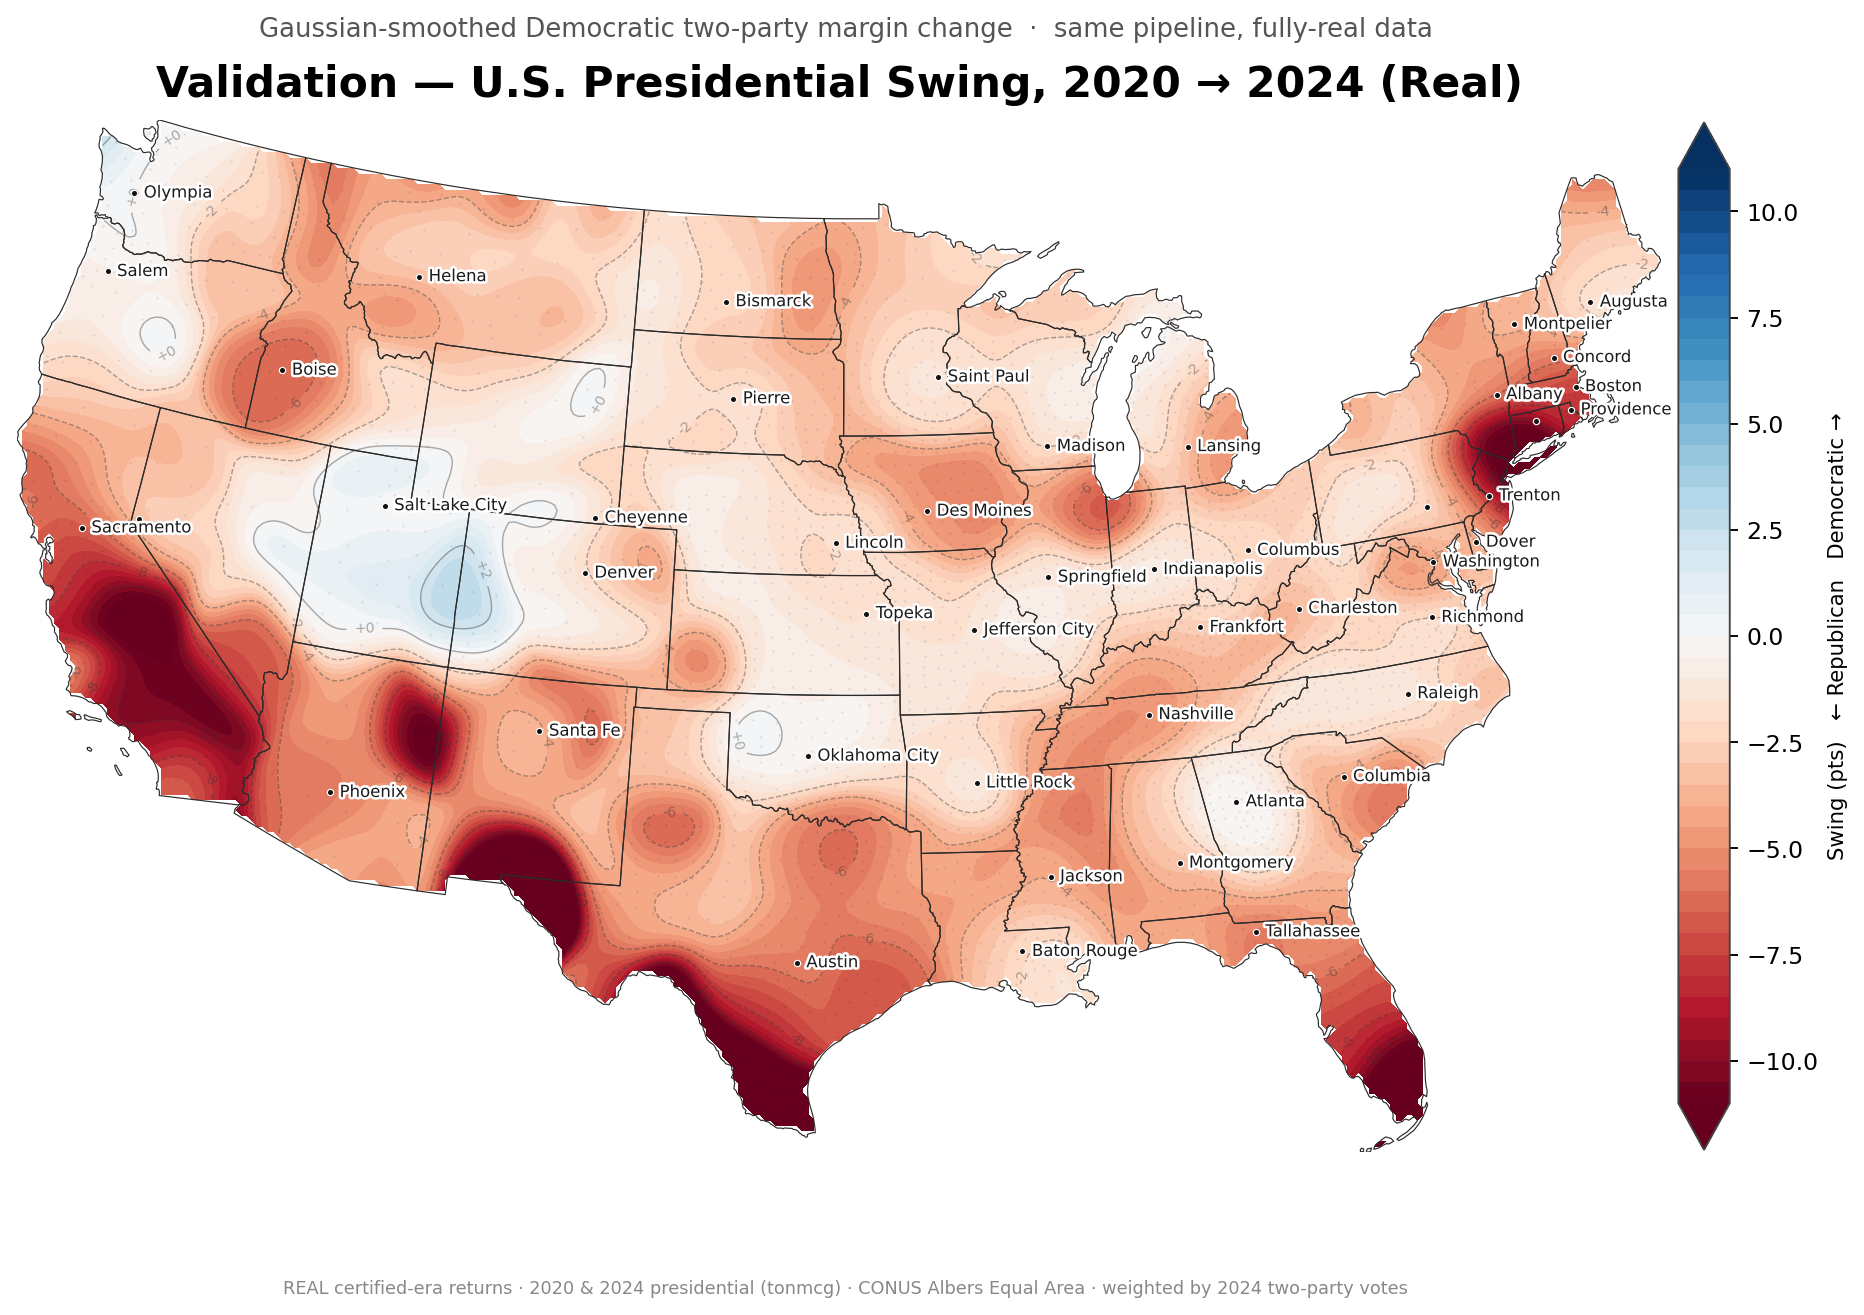
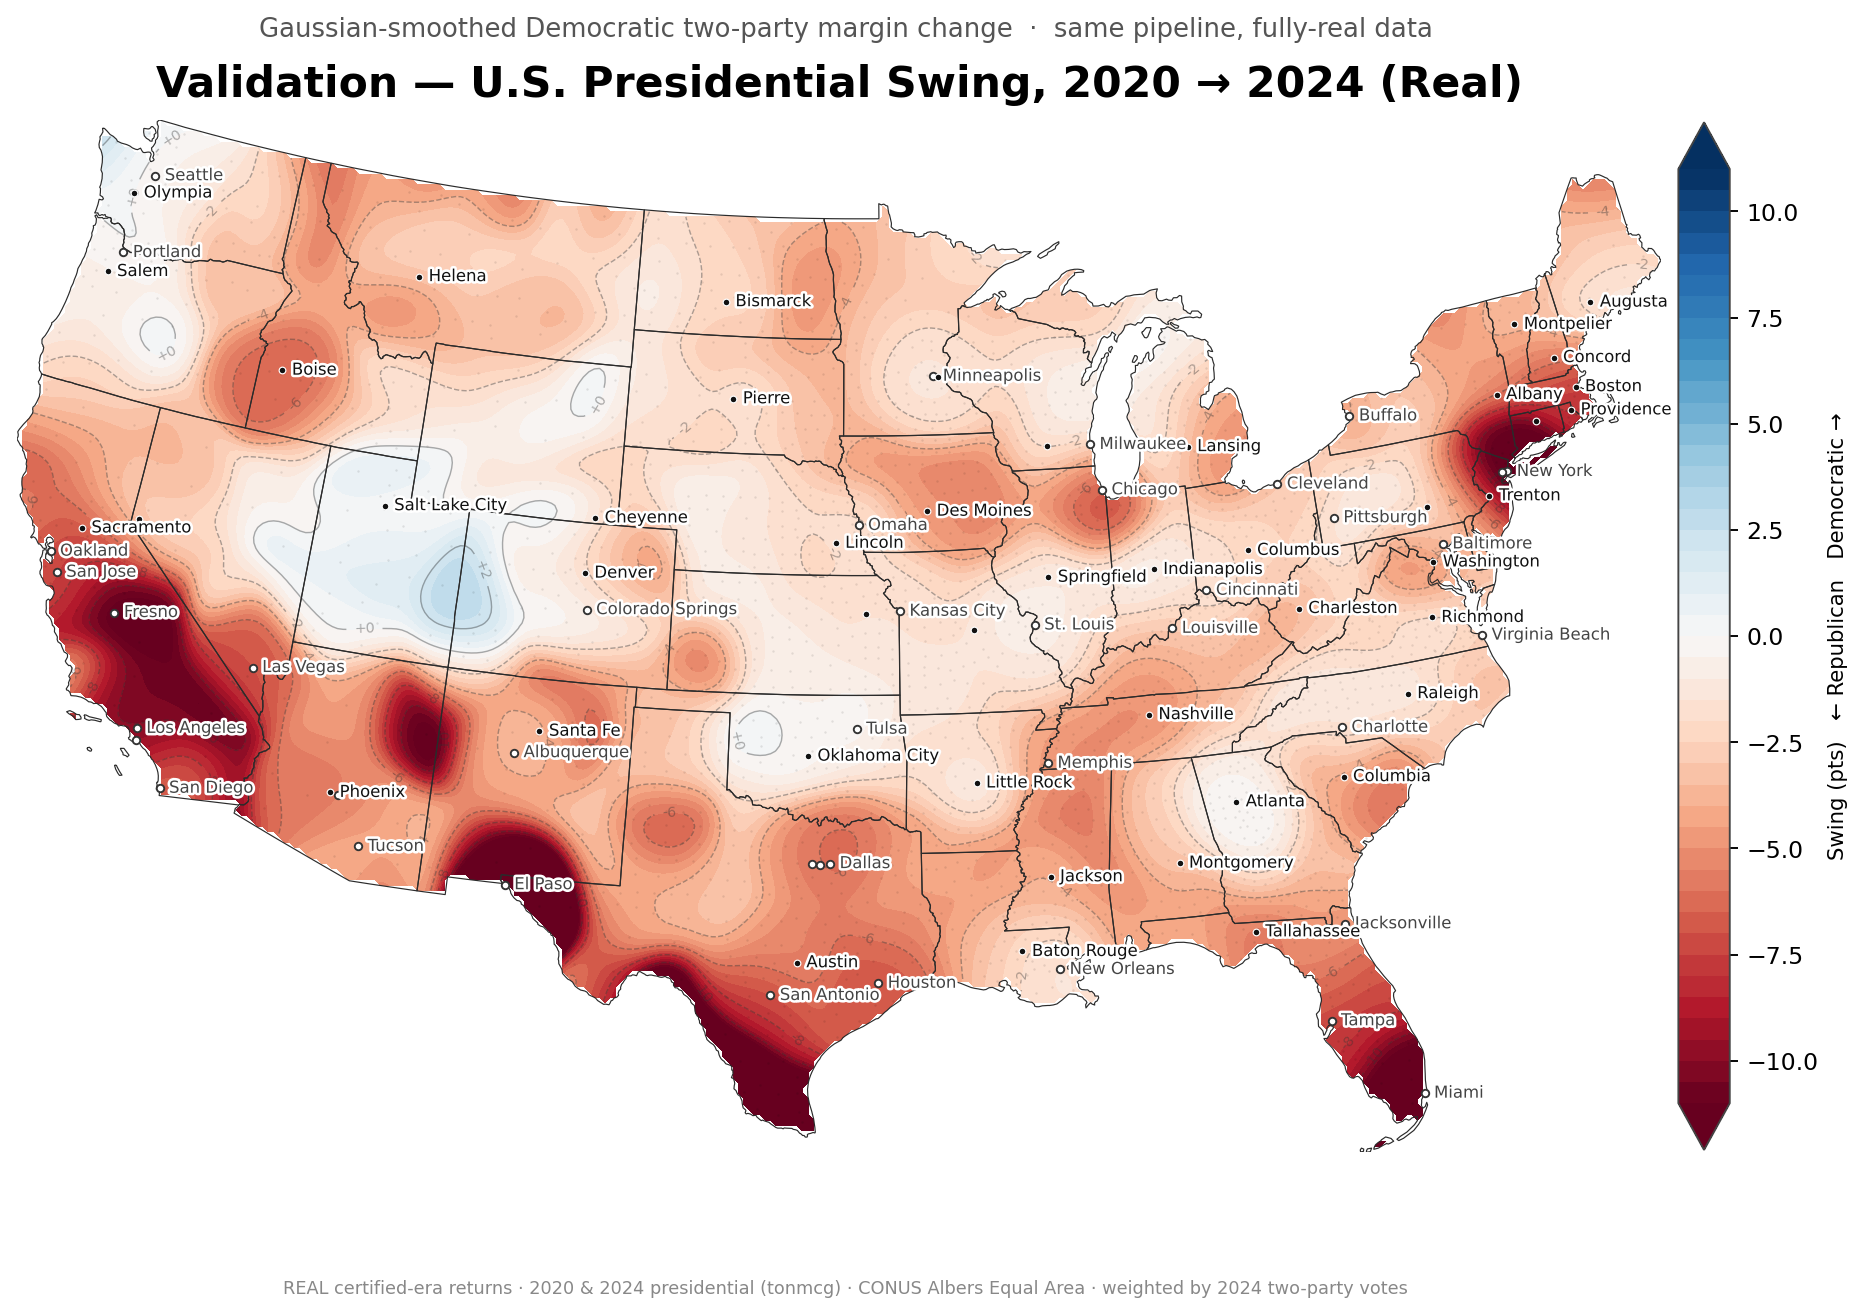
Add major-city labels alongside capitals
- capitals.py MAJORS: 41 largest non-capital contiguous-US cities.
- Static + web: capitals (solid) and majors (hollow) with combined greedy
  placement by population; separate Capitals / Major cities toggles in the app.

diff --git a/web/app.js b/web/app.js
@@ -6,8 +6,8 @@
 'use strict';
 
 const DATA = 'data/';
-const state = { meta:null, grids:{}, states:null, land:null, counties:null, capitals:null,
-                baseline:null, mode:'abs', lod:null, quad:null, loading:{}, showCaps:true };
+const state = { meta:null, grids:{}, states:null, land:null, counties:null, capitals:null, majors:null,
+                baseline:null, mode:'abs', lod:null, quad:null, loading:{}, showCaps:true, showMajors:true };
 
 const svg = d3.select('#map');
 const gZoom = svg.append('g');
@@ -44,10 +44,11 @@ async function load(){
   const meta = await d3.json(DATA + 'meta.json');
   state.meta = meta;
   [MINX, MINY, MAXX, MAXY] = meta.bounds;
-  const [states, land, counties, capitals] = await Promise.all([
-    d3.json(DATA + 'states.json'), d3.json(DATA + 'land.json'),
-    d3.json(DATA + 'counties.json'), d3.json(DATA + 'capitals.json')]);
-  state.states = states; state.land = land; state.counties = counties; state.capitals = capitals;
+  const [states, land, counties, capitals, majors] = await Promise.all([
+    d3.json(DATA + 'states.json'), d3.json(DATA + 'land.json'), d3.json(DATA + 'counties.json'),
+    d3.json(DATA + 'capitals.json'), d3.json(DATA + 'majors.json')]);
+  state.states = states; state.land = land; state.counties = counties;
+  state.capitals = capitals; state.majors = majors;
   const cols = Object.keys(meta.baselines);
   state.baseline = cols[0];
   state.lod = meta.lods[0];
@@ -67,7 +68,8 @@ async function load(){
   state.quad = d3.quadtree().x(d => d.x).y(d => d.y).addAll(counties);
 
   d3.select('#reset').on('click', () => svg.transition().duration(400).call(zoom.transform, d3.zoomIdentity));
-  d3.select('#capToggle').on('change', function(){ state.showCaps = this.checked; positionCapitals(); });
+  d3.select('#capToggle').on('change', function(){ state.showCaps = this.checked; positionPlaces(); });
+  d3.select('#majToggle').on('change', function(){ state.showMajors = this.checked; positionPlaces(); });
   d3.select('#footer').html(
     `Source: <a href="https://github.com/mike10010100/elections-2026" target="_blank" rel="noopener">mike10010100/elections-2026</a>
      (compiles NYT returns) · <b>PROVISIONAL, pre-certification</b> · fetched ${meta.fetched_at.slice(0,16)} ·
@@ -120,31 +122,35 @@ function drawLegend(vmax, color, title){
       .call(g => g.select('.domain').remove()).selectAll('text').attr('font-size', 9);
 }
 
-function positionCapitals(){
-  if (!state.capitals || !MPATH){ gCaps.selectAll('*').remove(); return; }
+function positionPlaces(){
+  if (!MPATH){ gCaps.selectAll('*').remove(); return; }
   const t = d3.zoomTransform(svg.node());
   const W = svg.node().clientWidth, H = svg.node().clientHeight;
-  const pts = state.showCaps ? state.capitals
-      .map(c => ({ ...c, X: t.applyX(sx(c.x)), Y: t.applyY(sy(c.y)) }))
-      .filter(c => c.X > -20 && c.X < W+20 && c.Y > -10 && c.Y < H+10) : [];
-  gCaps.selectAll('circle').data(pts, d => d.n).join('circle')
-      .attr('class', 'cap-dot').attr('cx', d => d.X).attr('cy', d => d.Y).attr('r', 2.6);
-  // greedy label placement by population; crowded areas keep the larger cities
+  const src = [];
+  if (state.showCaps && state.capitals) src.push(...state.capitals.map(c => ({ ...c, t: 'cap' })));
+  if (state.showMajors && state.majors) src.push(...state.majors.map(c => ({ ...c, t: 'maj' })));
+  const pts = src.map(c => ({ ...c, X: t.applyX(sx(c.x)), Y: t.applyY(sy(c.y)) }))
+      .filter(c => c.X > -20 && c.X < W+20 && c.Y > -10 && c.Y < H+10);
+  gCaps.selectAll('circle').data(pts, d => d.t + d.n).join('circle')
+      .attr('class', d => d.t === 'cap' ? 'cap-dot' : 'maj-dot')
+      .attr('cx', d => d.X).attr('cy', d => d.Y).attr('r', d => d.t === 'cap' ? 2.6 : 2.4);
+  // greedy label placement by population across both sets
   const placed = [], show = [];
   for (const c of [...pts].sort((a, b) => b.p - a.p)){
     const w = c.n.length*6 + 8, box = [c.X+5, c.Y-6, c.X+5+w, c.Y+6];
     if (placed.some(p => !(box[2]<p[0] || box[0]>p[2] || box[3]<p[1] || box[1]>p[3]))) continue;
     placed.push(box); show.push(c);
   }
-  gCaps.selectAll('text').data(show, d => d.n).join('text')
-      .attr('class', 'cap-label').attr('x', d => d.X+5).attr('y', d => d.Y+3).text(d => d.n);
+  gCaps.selectAll('text').data(show, d => d.t + d.n).join('text')
+      .attr('class', d => d.t === 'cap' ? 'cap-label' : 'cap-label maj-label')
+      .attr('x', d => d.X+5).attr('y', d => d.Y+3).text(d => d.n);
 }
 
 const zoom = d3.zoom().scaleExtent([1, 60]).on('zoom', async e => {
   gZoom.attr('transform', e.transform);
   gContour.selectAll('path').attr('stroke-width', 0.3/e.transform.k);
   gStates.selectAll('path').attr('stroke-width', 0.6/e.transform.k);
-  positionCapitals();
+  positionPlaces();
   const want = pickLOD(e.transform.k);
   if (want !== state.lod){
     state.lod = want;
@@ -179,7 +185,7 @@ function resize(){
   svg.select('#landclip path').attr('d', MPATH(state.land));
   svg.call(zoom.transform, d3.zoomIdentity);
   render();
-  positionCapitals();
+  positionPlaces();
 }
 
 load().catch(err => { console.error(err); document.getElementById('footer').textContent = 'Failed to load data: ' + err; });

diff --git a/web/index.html b/web/index.html
@@ -37,8 +37,10 @@
   svg.grabbing{cursor:grabbing}
   .state{fill:none;stroke:#333;stroke-width:.6px;vector-effect:non-scaling-stroke}
   .cap-dot{fill:#111;stroke:#fff;stroke-width:1}
+  .maj-dot{fill:#fff;stroke:#333;stroke-width:1.1}
   .cap-label{font-size:11px;fill:#1a1a1a;paint-order:stroke;stroke:#fff;stroke-width:3px;
     stroke-linejoin:round;pointer-events:none}
+  .maj-label{fill:#444}
   .chk{display:flex;align-items:center;gap:5px;font-size:13px;cursor:pointer;user-select:none}
   .tip{position:absolute;pointer-events:none;background:#fff;border:1px solid var(--line);
     border-radius:6px;padding:6px 9px;font-size:12px;box-shadow:0 2px 8px #0002;opacity:0;transition:opacity .08s}
@@ -76,6 +78,10 @@
   <div class="ctl">
     <label>Labels</label>
     <label class="chk"><input type="checkbox" id="capToggle" checked> Capitals</label>
+  </div>
+  <div class="ctl">
+    <label>&nbsp;</label>
+    <label class="chk"><input type="checkbox" id="majToggle" checked> Major cities</label>
   </div>
   <div id="legend">
     <span class="legend-title" id="legend-title"></span>

diff --git a/src/render.py b/src/render.py
@@ -26,24 +26,27 @@ import insets as INS
 import capitals as CAP
 
 
-def draw_capitals(ax):
-    """Capital dots (all) + labels placed greedily by population so crowded
-    regions keep only the larger cities."""
+def draw_places(ax):
+    """Capital (solid) + major-city (hollow) dots, with labels placed greedily
+    by population across both sets so crowded regions keep the larger cities."""
     tr = Transformer.from_crs(C.CRS_GEOGRAPHIC, C.CRS_WORKING, always_xy=True)
-    caps = [(n, *tr.transform(lon, lat), pop) for n, s, lat, lon, pop in CAP.CAPITALS]
-    ax.scatter([c[1] for c in caps], [c[2] for c in caps], s=7,
-               facecolor="#111", edgecolor="white", linewidths=0.5, zorder=20)
+    caps = [(n, *tr.transform(lon, lat), pop, "cap") for n, s, lat, lon, pop in CAP.CAPITALS]
+    maj = [(n, *tr.transform(lon, lat), pop, "maj") for n, s, lat, lon, pop in CAP.MAJORS]
+    ax.scatter([m[1] for m in maj], [m[2] for m in maj], s=10, facecolor="white",
+               edgecolor="#333", linewidths=0.8, zorder=19)
+    ax.scatter([c[1] for c in caps], [c[2] for c in caps], s=8, facecolor="#111",
+               edgecolor="white", linewidths=0.5, zorder=20)
     halo = [pe.withStroke(linewidth=2.2, foreground="white")]
     placed = []
-    for n, x, y, pop in sorted(caps, key=lambda c: -c[3]):
+    for n, x, y, pop, typ in sorted(caps + maj, key=lambda c: -c[3]):
         dx, dy = ax.transData.transform((x, y))
         w = len(n) * 7 * 0.55 + 6
         box = (dx + 4, dy - 5, dx + 4 + w, dy + 5)
         if any(not (box[2] < p[0] or box[0] > p[2] or box[3] < p[1] or box[1] > p[3]) for p in placed):
             continue
         placed.append(box)
-        ax.annotate(n, (x, y), xytext=(4, 0), textcoords="offset points", fontsize=7,
-                    va="center", ha="left", color="#1a1a1a", zorder=21, path_effects=halo)
+        ax.annotate(n, (x, y), xytext=(4, 0), textcoords="offset points", fontsize=7, va="center",
+                    ha="left", color="#111" if typ == "cap" else "#444", zorder=21, path_effects=halo)
 
 plt.rcParams.update({"font.family": "DejaVu Sans", "font.size": 10,
                      "axes.edgecolor": "#444444", "figure.facecolor": "white"})
@@ -118,7 +121,7 @@ def render_hero(stations, land, states, value_col, method, out_png, title,
     if show_dots:
         s = stations.dropna(subset=[value_col])
         ax.scatter(s["x"], s["y"], s=1.0, c="#00000018", linewidths=0)
-    draw_capitals(ax)
+    draw_places(ax)
     if stations_all is not None:
         ax_ak = ax.inset_axes([0.005, 0.01, 0.17, 0.20])
         _draw_ak_inset(ax_ak, INS.ak_geometry())

diff --git a/src/capitals.py b/src/capitals.py
@@ -56,3 +56,49 @@ CAPITALS = [
     ("Cheyenne", "WY", 41.140, -104.820, 65),
     ("Washington", "DC", 38.895, -77.037, 702),
 ]
+
+# Major cities that are NOT state capitals (contiguous US), by city population
+# (thousands). Deduped against CAPITALS by construction. (name, state, lat, lon, pop)
+MAJORS = [
+    ("New York", "NY", 40.713, -74.006, 8336),
+    ("Los Angeles", "CA", 34.052, -118.244, 3980),
+    ("Chicago", "IL", 41.878, -87.630, 2746),
+    ("Houston", "TX", 29.760, -95.370, 2304),
+    ("San Antonio", "TX", 29.424, -98.494, 1434),
+    ("San Diego", "CA", 32.716, -117.161, 1386),
+    ("Dallas", "TX", 32.777, -96.797, 1304),
+    ("San Jose", "CA", 37.339, -121.895, 1013),
+    ("Jacksonville", "FL", 30.332, -81.656, 950),
+    ("Fort Worth", "TX", 32.756, -97.331, 918),
+    ("Charlotte", "NC", 35.227, -80.843, 875),
+    ("Seattle", "WA", 47.606, -122.332, 737),
+    ("El Paso", "TX", 31.759, -106.487, 679),
+    ("Portland", "OR", 45.515, -122.679, 652),
+    ("Las Vegas", "NV", 36.170, -115.139, 644),
+    ("Memphis", "TN", 35.150, -90.049, 633),
+    ("Louisville", "KY", 38.253, -85.758, 633),
+    ("Baltimore", "MD", 39.290, -76.612, 585),
+    ("Milwaukee", "WI", 43.039, -87.906, 577),
+    ("Albuquerque", "NM", 35.084, -106.651, 562),
+    ("Tucson", "AZ", 32.222, -110.975, 542),
+    ("Fresno", "CA", 36.738, -119.787, 542),
+    ("Kansas City", "MO", 39.099, -94.578, 508),
+    ("Mesa", "AZ", 33.416, -111.832, 504),
+    ("Omaha", "NE", 41.257, -95.934, 486),
+    ("Colorado Springs", "CO", 38.834, -104.821, 478),
+    ("Long Beach", "CA", 33.770, -118.194, 466),
+    ("Virginia Beach", "VA", 36.853, -75.978, 459),
+    ("Miami", "FL", 25.762, -80.192, 442),
+    ("Oakland", "CA", 37.804, -122.271, 440),
+    ("Minneapolis", "MN", 44.978, -93.265, 430),
+    ("Tulsa", "OK", 36.154, -95.993, 413),
+    ("Tampa", "FL", 27.951, -82.457, 399),
+    ("Arlington", "TX", 32.736, -97.108, 394),
+    ("New Orleans", "LA", 29.951, -90.072, 384),
+    ("Cleveland", "OH", 41.499, -81.694, 372),
+    ("Newark", "NJ", 40.735, -74.172, 311),
+    ("Cincinnati", "OH", 39.103, -84.512, 309),
+    ("St. Louis", "MO", 38.627, -90.199, 301),
+    ("Pittsburgh", "PA", 40.441, -79.996, 302),
+    ("Buffalo", "NY", 42.886, -78.878, 278),
+]

diff --git a/src/export_web.py b/src/export_web.py
@@ -94,13 +94,16 @@ def main():
                 for _, r in stations.iterrows()]
     json.dump(counties, open(WEB_DATA / "counties.json", "w"))
 
-    # State capitals (+ DC), projected to the working CRS (metres).
+    # Capitals (+ DC) and major cities, projected to the working CRS (metres).
     tr = Transformer.from_crs(C.CRS_GEOGRAPHIC, C.CRS_WORKING, always_xy=True)
-    caps = []
-    for name, st, lat, lon, pop in CAP.CAPITALS:
-        x, y = tr.transform(lon, lat)
-        caps.append({"n": name, "s": st, "x": round(x), "y": round(y), "p": pop})
-    json.dump(caps, open(WEB_DATA / "capitals.json", "w"))
+    def project(rows):
+        out = []
+        for name, st, lat, lon, pop in rows:
+            x, y = tr.transform(lon, lat)
+            out.append({"n": name, "s": st, "x": round(x), "y": round(y), "p": pop})
+        return out
+    json.dump(project(CAP.CAPITALS), open(WEB_DATA / "capitals.json", "w"))
+    json.dump(project(CAP.MAJORS), open(WEB_DATA / "majors.json", "w"))
 
     json.dump(meta, open(WEB_DATA / "meta.json", "w"), indent=1)
 

diff --git a/README.md b/README.md
@@ -56,8 +56,12 @@ client-side. Pan/zoom and per-county hover tooltips are built in.
 **Level of detail by zoom:** each baseline ships at two kernel bandwidths — a
 coarse 75 km surface shown when zoomed out and a finer 40 km surface that loads
 on demand and is revealed as you zoom in (the status line shows which is active).
-Static maps also default to the 75 km kernel on a 15 km grid. Alaska is shown as
-"result pending" (see limitations); Hawaii appears on the static maps.
+Static maps also default to the 75 km kernel on a 15 km grid.
+
+**City labels:** state capitals (solid dots) and major cities (hollow dots) can
+be toggled on/off; labels are placed greedily by population so crowded regions
+keep the larger cities and more appear as you zoom. Alaska is shown as "result
+pending" (see limitations); Hawaii appears on the static maps.
 
 ### Deploy / auto-update
 
